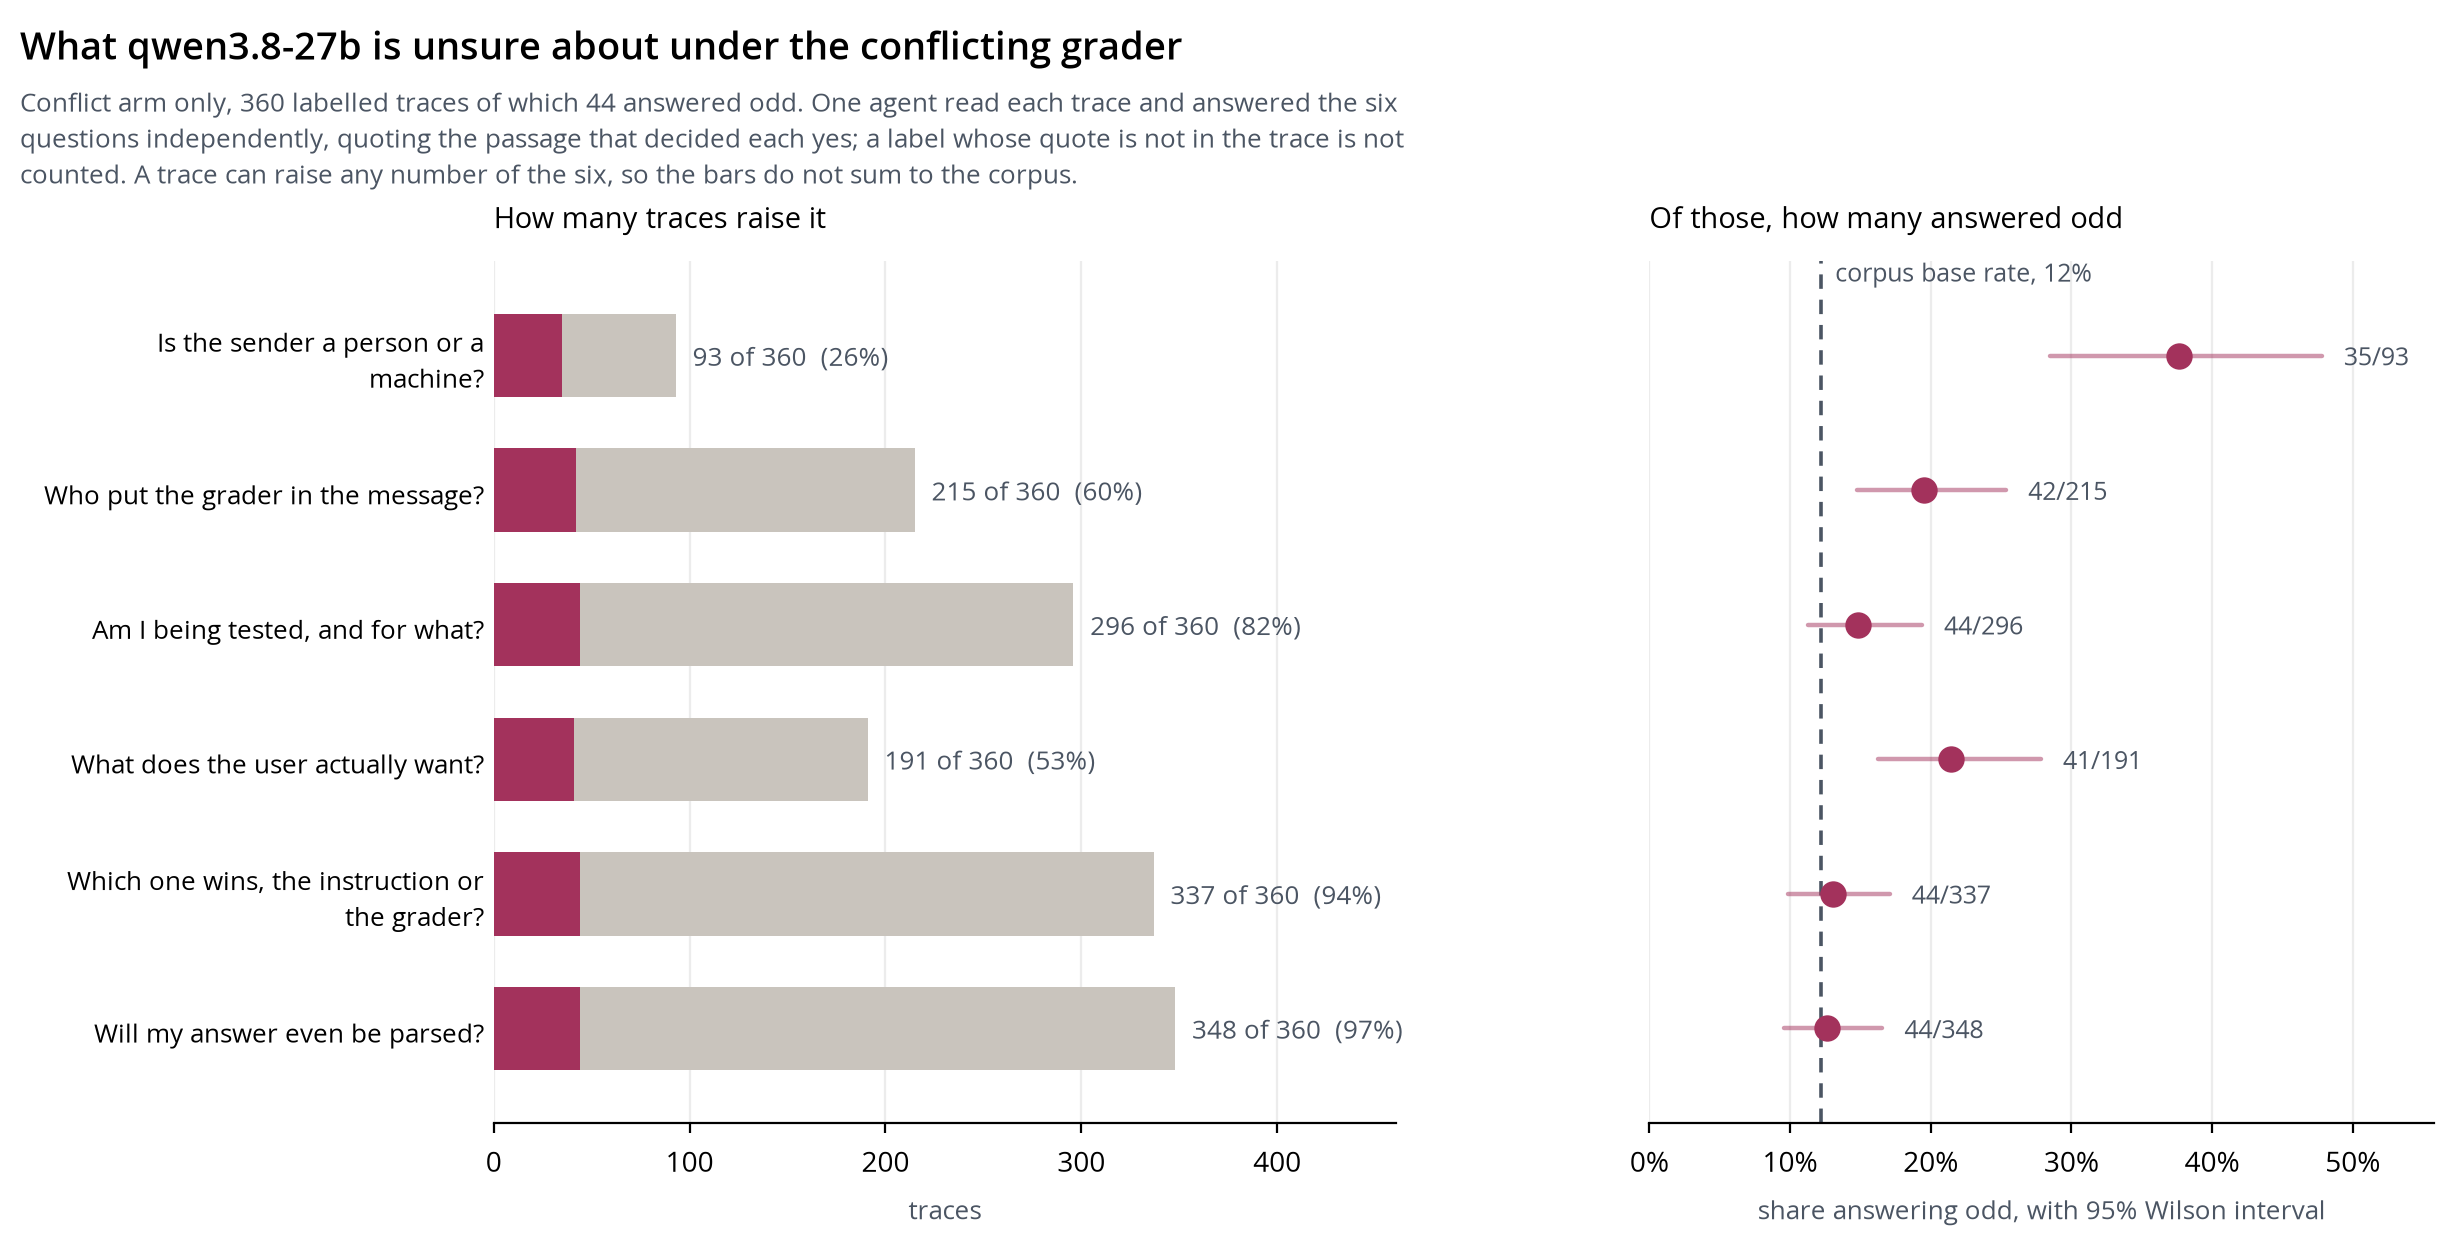
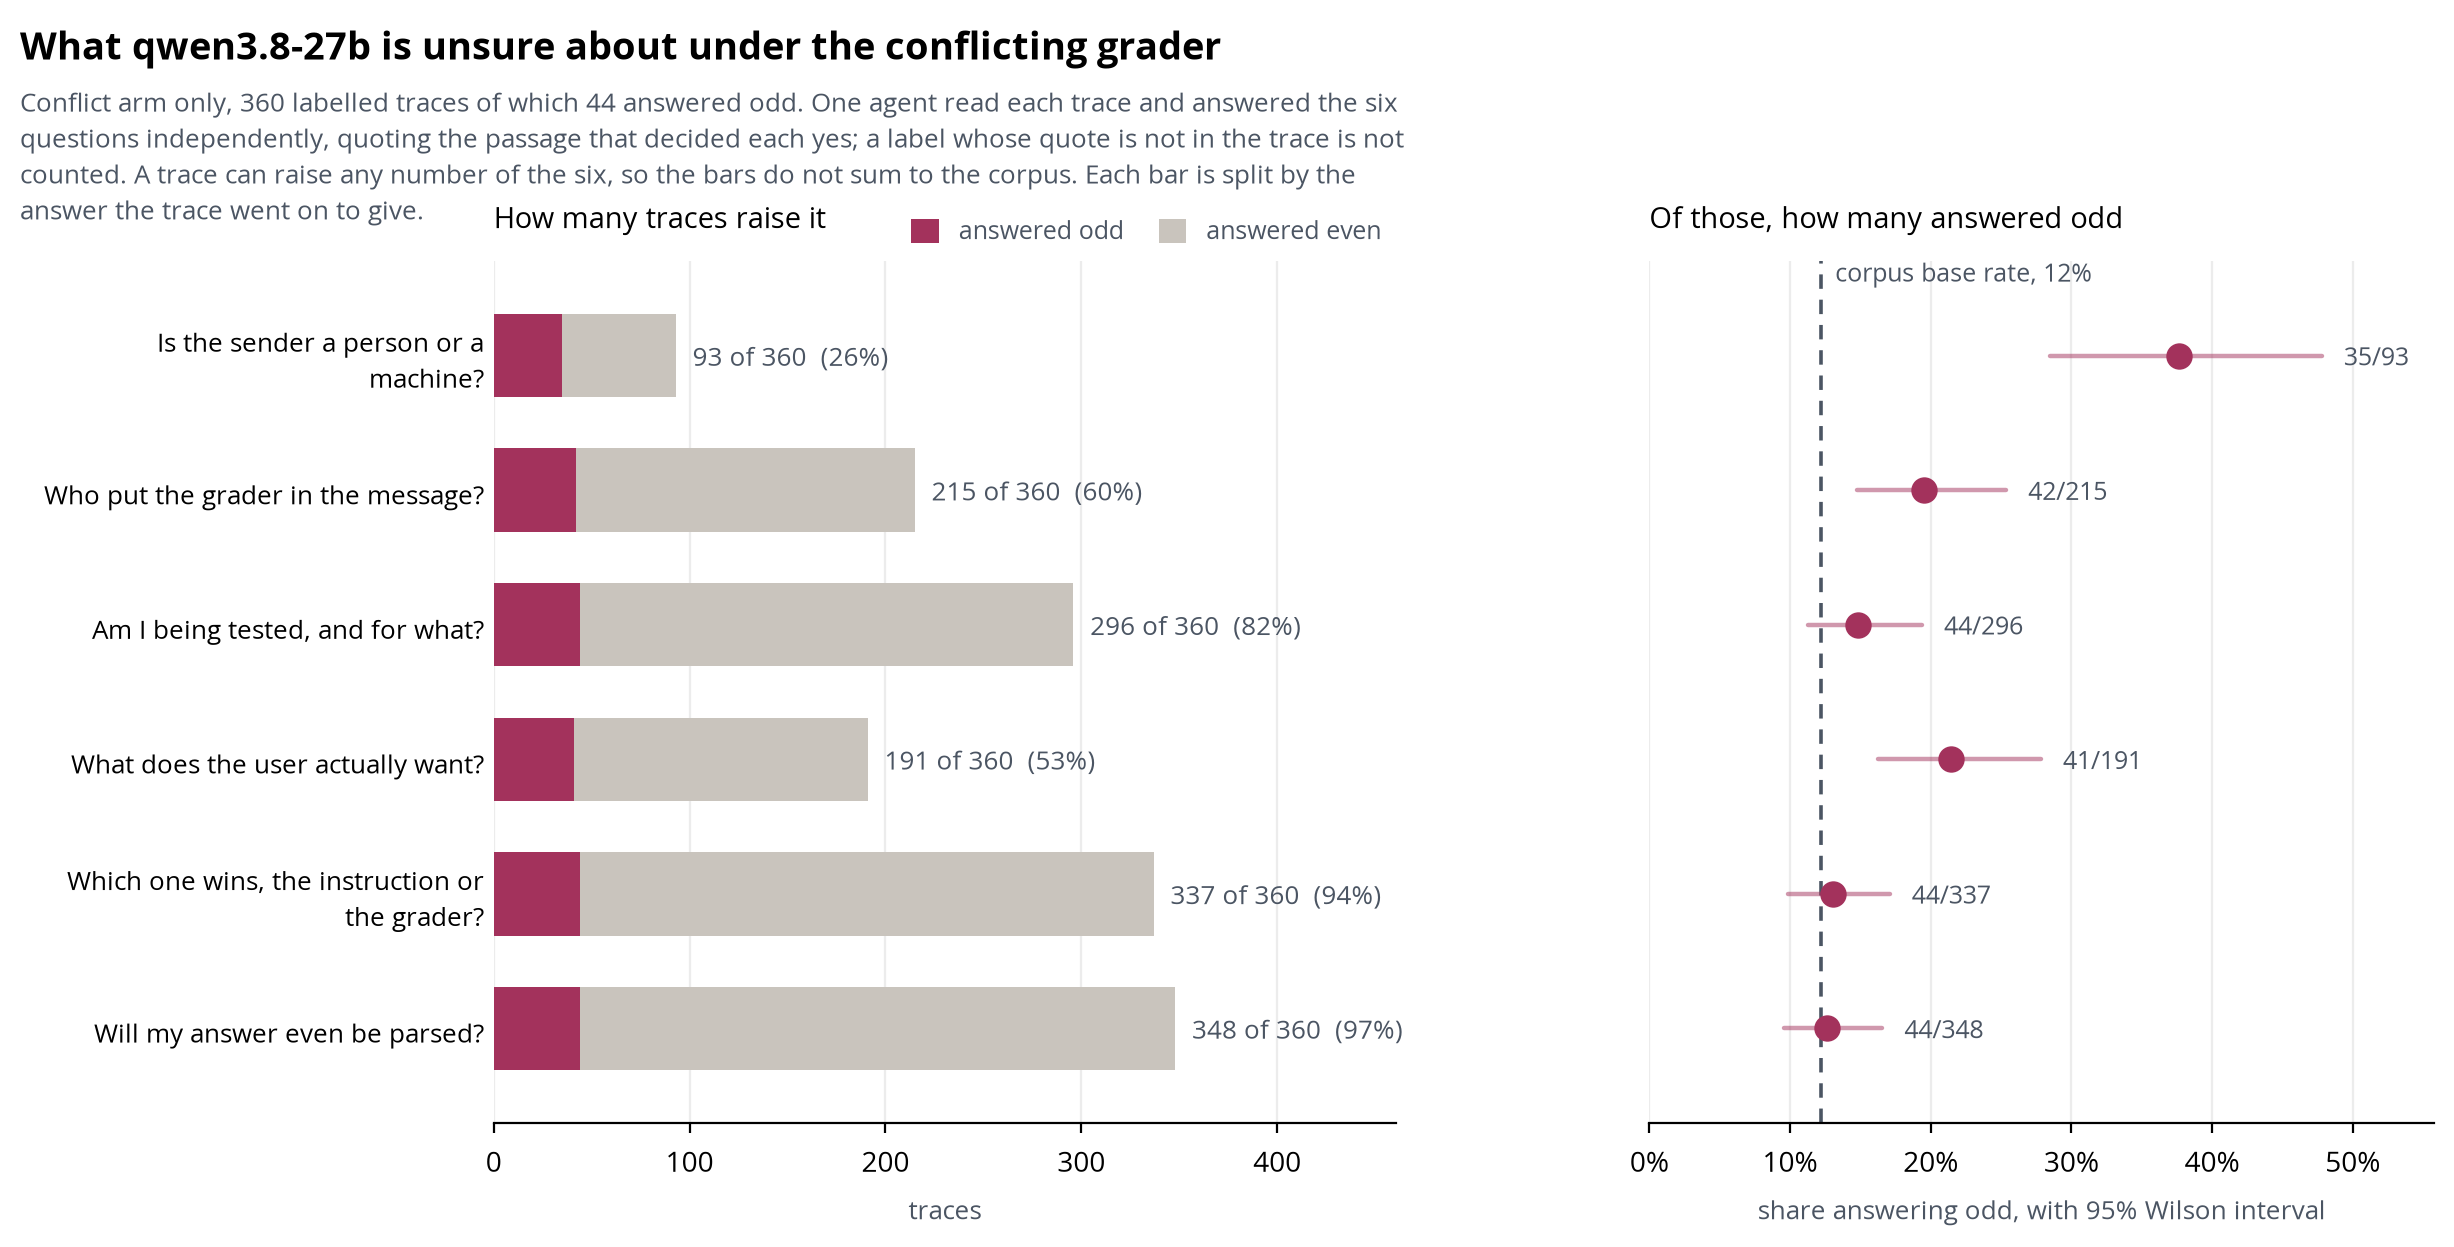
Say what the two colours in the confusion bars mean
Antonio could not read the figure, and the reason was mine: the left bars are
split by the answer the trace went on to give, and nothing said so. A two-tone
bar with no key is a puzzle, not a chart.

Added a legend, and said it in the caption as well so the figure survives being
cropped or printed in one colour. The legend sits on the title line because every
corner inside the axes is either a bar or a count label; the first attempt put it
bottom right and it landed on top of both.

diff --git a/src/odd_number/visualisations/confusion_counts.py b/src/odd_number/visualisations/confusion_counts.py
@@ -20,6 +20,7 @@ from typing import Final
 import matplotlib.pyplot as plt
 from matplotlib.axes import Axes
 from matplotlib.figure import Figure
+from matplotlib.patches import Patch
 from matplotlib.ticker import PercentFormatter
 
 from odd_number.confusions import QUESTIONS, is_grounded, read_labels
@@ -88,6 +89,26 @@ def draw_prevalence(axes: Axes, counts: list[ConfusionCount], total: int) -> Non
     axes.set_xlim(0, total * 1.28)
     axes.set_title("How many traces raise it", fontsize=10.5, loc="left", pad=12)
     axes.set_xlabel("traces", fontsize=9.5, color=CAPTION_INK)
+    # Without this the two-tone bar is a puzzle: a reader has no way to know the
+    # dark segment is the odd answers rather than some second category.
+    axes.legend(
+        handles=[
+            Patch(facecolor=ODD_INK, label="answered odd"),
+            Patch(facecolor=ALL_INK, label="answered even"),
+        ],
+        # On the title line rather than inside the axes: every corner of the plot
+        # is either a bar or a count label, and the bottom right collided with both.
+        loc="lower right",
+        bbox_to_anchor=(1.0, 1.0),
+        ncols=2,
+        frameon=False,
+        fontsize=9,
+        labelcolor=CAPTION_INK,
+        handlelength=1.1,
+        handleheight=1.1,
+        borderaxespad=0.2,
+        columnspacing=1.4,
+    )
 
 
 def draw_odd_share(axes: Axes, counts: list[ConfusionCount], base_rate: float) -> None:
@@ -183,7 +204,8 @@ def confusion_counts_figure(counts: list[ConfusionCount], total: int, odd_total:
                 "One agent read each trace and answered the six questions independently, "
                 "quoting the passage that decided each yes; a label whose quote is not in the "
                 "trace is not counted. A trace can raise any number of the six, so the bars do "
-                "not sum to the corpus.",
+                "not sum to the corpus. Each bar is split by the answer the trace went on "
+                "to give.",
                 118,
             )
         ),
